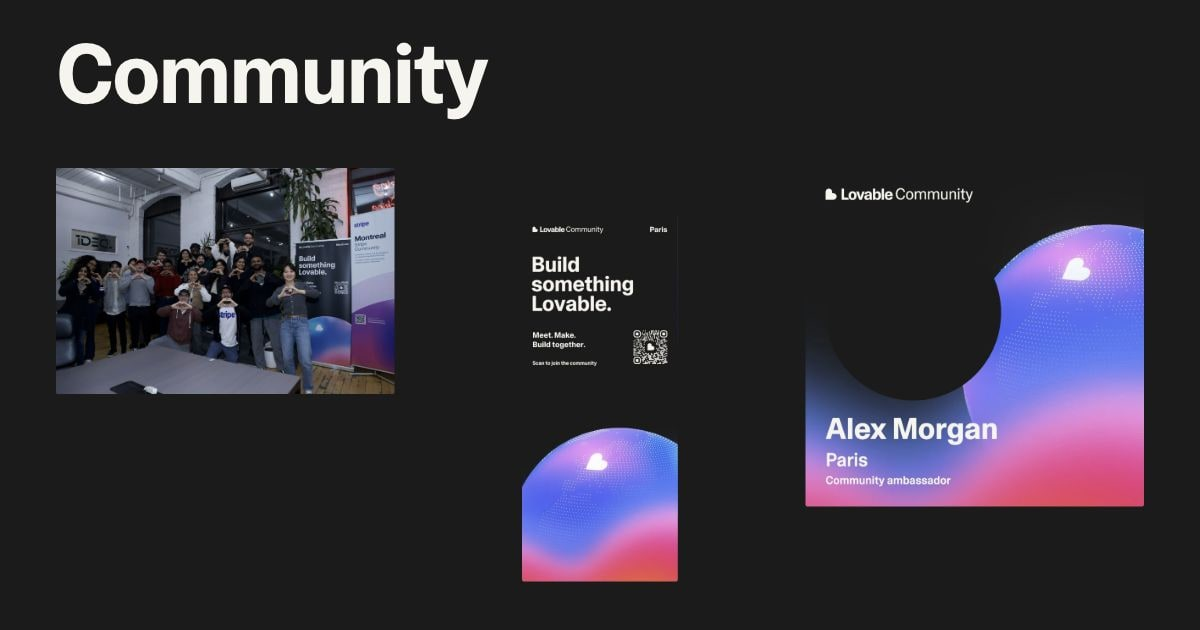
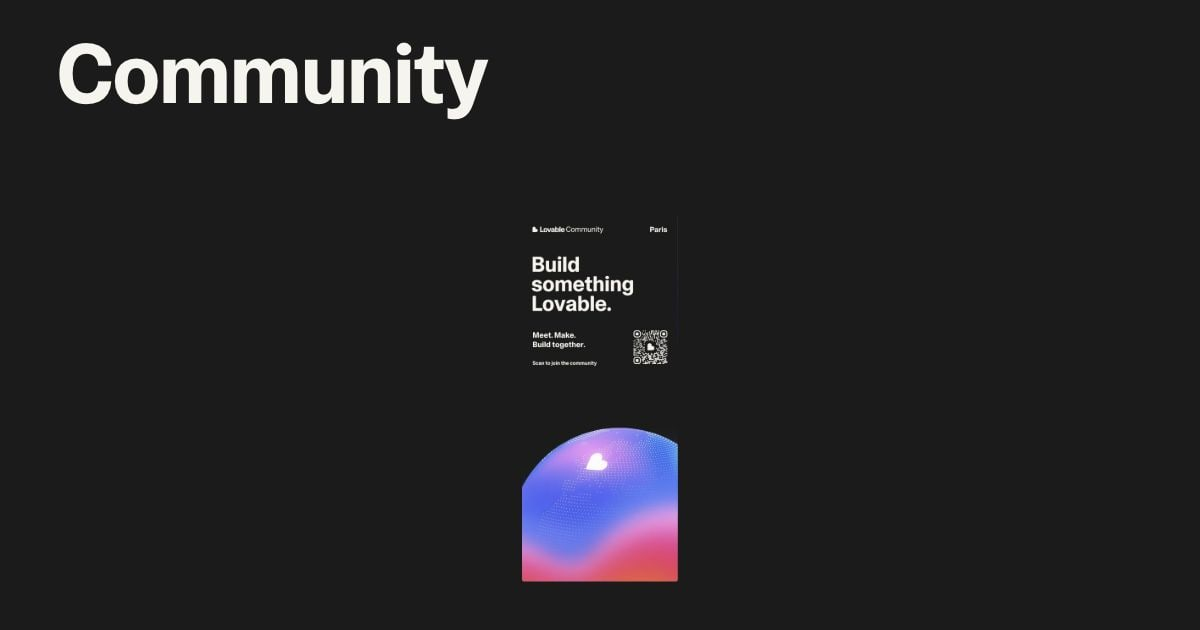
Arrange Tech blog in three columns and move Community kit first

Changed region(s): [[0.0308, 0.2413, 0.3392, 0.6333], [0.6475, 0.3317, 0.9558, 0.8143], [0.6783, 0.3016, 0.8325, 0.3317]]

diff --git a/src/ambassadors/gallery.css b/src/ambassadors/gallery.css
@@ -1,11 +1,11 @@
 /* Share Partners' gallery shell, grid, spacing and responsive breakpoints. */
 .ambassador-gallery .ambassador-gallery-photo { grid-area: 1 / 1 / auto / span 5; }
 .ambassador-gallery .ambassador-gallery-banner { grid-area: 1 / 7 / auto / span 2; margin-top: 48px; }
-.ambassador-gallery .ambassador-gallery-spotlight { grid-area: 1 / 10 / auto / span 3; margin-top: 112px; }
+.ambassador-gallery .ambassador-gallery-kit { grid-area: 1 / 10 / auto / span 3; margin-top: 112px; }
 .ambassador-gallery .ambassador-gallery-website { grid-area: 2 / 1 / auto / span 5; margin-top: 48px; }
 .ambassador-gallery .ambassador-gallery-gathering { grid-area: 2 / 7 / auto / span 3; margin-top: 96px; }
 .ambassador-gallery .ambassador-gallery-social { grid-area: 2 / 10 / auto / span 3; }
-.ambassador-gallery .ambassador-gallery-kit { grid-area: 3 / 1 / auto / span 4; }
+.ambassador-gallery .ambassador-gallery-spotlight { grid-area: 3 / 1 / auto / span 4; }
 .ambassador-gallery .ambassador-gallery-speakers { grid-area: 3 / 6 / auto / span 4; margin-top: 72px; }
 .ambassador-gallery .ambassador-gallery-badge { grid-area: 3 / 11 / auto / span 2; margin-top: 120px; border-radius: 5.33%; }
 .ambassador-gallery .ambassador-gallery-poster { grid-area: 4 / 6 / auto / span 7; }
@@ -14,8 +14,8 @@
   .ambassador-gallery .gallery-item { grid-area: auto; margin-top: 0; }
   .ambassador-gallery .ambassador-gallery-photo { grid-column: span 2; width: 88%; }
   .ambassador-gallery .ambassador-gallery-banner { width: 60%; justify-self: center; }
-  .ambassador-gallery .ambassador-gallery-spotlight { width: 86%; justify-self: end; margin-top: 32px; }
-  .ambassador-gallery .ambassador-gallery-website, .ambassador-gallery .ambassador-gallery-kit, .ambassador-gallery .ambassador-gallery-social, .ambassador-gallery .ambassador-gallery-speakers, .ambassador-gallery .ambassador-gallery-poster { grid-column: span 2; width: 88%; }
+  .ambassador-gallery .ambassador-gallery-kit { width: 86%; justify-self: end; margin-top: 32px; }
+  .ambassador-gallery .ambassador-gallery-website, .ambassador-gallery .ambassador-gallery-spotlight, .ambassador-gallery .ambassador-gallery-social, .ambassador-gallery .ambassador-gallery-speakers, .ambassador-gallery .ambassador-gallery-poster { grid-column: span 2; width: 88%; }
   .ambassador-gallery .ambassador-gallery-speakers, .ambassador-gallery .ambassador-gallery-poster { justify-self: end; }
   .ambassador-gallery .ambassador-gallery-gathering, .ambassador-gallery .ambassador-gallery-badge { width: 86%; }
 }
@@ -23,8 +23,8 @@
 @media (max-width: 680px) {
   .ambassador-gallery .gallery-item { grid-area: auto; margin-top: 0; }
   .ambassador-gallery .ambassador-gallery-banner { width: 36%; justify-self: end; }
-  .ambassador-gallery .ambassador-gallery-spotlight { width: 72%; }
+  .ambassador-gallery .ambassador-gallery-kit { width: 72%; }
   .ambassador-gallery .ambassador-gallery-speakers, .ambassador-gallery .ambassador-gallery-poster { width: 84%; justify-self: end; }
   .ambassador-gallery .ambassador-gallery-gathering, .ambassador-gallery .ambassador-gallery-badge { width: 72%; }
-  .ambassador-gallery .ambassador-gallery-kit { width: 84%; }
+  .ambassador-gallery .ambassador-gallery-spotlight { width: 84%; }
 }

diff --git a/src/tech-blog/tech.css b/src/tech-blog/tech.css
@@ -4,8 +4,8 @@
 .tech-modal-wash { position:absolute; inset:0; background:#0009; }
 .tech-demo-button { color:#1b1b1b; background:#f7f4ed; border-radius:8px; padding:8px 14px; font:600 14px 'Camera Plain'; }
 .tech-gallery .gallery-grid { align-items:start; }
-.tech-gallery .tech-artwork { grid-column:span 6; width:100%; margin-top:0; background:transparent; }
-.tech-gallery .tech-artwork:nth-child(2) { margin-top:80px; }
+.tech-gallery .tech-artwork { grid-column:span 4; width:100%; margin-top:0; background:transparent; }
+.tech-gallery .tech-artwork:nth-child(3n + 2) { margin-top:48px; }
 .tech-gallery .tech-email { width:62%; justify-self:center; }
 .tech-gallery .tech-email:last-child { margin-top:64px; }
 .tech-guidelines .tech-frame { border-radius:12px; }
@@ -79,9 +79,5 @@
 
 .tech-label-gap { left:72.495%; width:6.103%; top:-24px; height:8px; border-top:1px solid var(--color-guide); border-inline:1px solid var(--color-guide); }
 .tech-label-gap b { bottom:16px; left:50%; transform:translateX(-50%); }
-.tech-gallery .tech-motion { grid-column:1 / -1; width:100%; aspect-ratio:16/9; }
+.tech-gallery .tech-motion { aspect-ratio:16/9; }
 .tech-gallery .tech-motion > img { display:block; width:100%; height:auto; }
-.tech-gallery .tech-artwork:nth-child(2) { margin-top:0; }
-.tech-gallery .tech-cover:nth-child(3) { margin-top:80px; }
-@media(max-width:1000px){.tech-gallery .tech-cover:nth-child(3){margin-top:50px}}
-@media(max-width:680px){.tech-gallery .tech-cover:nth-child(3){margin-top:0}}

diff --git a/src/ambassadors/views.js b/src/ambassadors/views.js
@@ -13,7 +13,7 @@ const galleryPhotos={
   kit:{label:'Lovable ambassador welcome kit',src:'/ambassadors/gallery/ambassador-kit-1280.webp',srcset:'/ambassadors/gallery/ambassador-kit-640.webp 640w, /ambassadors/gallery/ambassador-kit-1280.webp 1280w',width:1280,height:832},
 };
 export function ambassadorGallery(){return `<section class="gallery ambassador-gallery" aria-label="Community gallery"><div class="gallery-grid">
-  ${['photo','banner','spotlight','website','gathering','social','kit','speakers','badge','poster'].map(id=>{
+  ${['photo','banner','kit','website','gathering','social','spotlight','speakers','badge','poster'].map(id=>{
     const photo=galleryPhotos[id],label=photo?.label||ambassadorFormats.find(f=>f.id===id).name;
     const content=photo?`<img src="${photo.src}" ${photo.srcset?`srcset="${photo.srcset}"`:''} sizes="(max-width:680px) calc(100vw - 48px), (max-width:1000px) 88vw, min(58vw, 850px)" width="${photo.width}" height="${photo.height}" alt="${label}" ${id==='photo'?'fetchpriority="high"':'loading="lazy"'} decoding="async"/>`:preview(id);
     return `<figure class="gallery-item ambassador-gallery-${id}" role="img" aria-label="${label}">${content}</figure>`;

diff --git a/AGENTS.md b/AGENTS.md
@@ -101,3 +101,7 @@
 - In the Lovable identity color playground, display the intact logo at 88% with a right-center transform origin on desktop, increasing its left margin without moving its right anchor. Center that scaling in the stacked mobile layout; downloadable artwork stays unchanged.
 
 - The Lovable collaboration template is named “Partnership” in the selector and new-document title. Cerebras is only the replaceable example partner, not the template name. Preserve existing saved document names.
+
+- Tech blog Gallery shows three assets per desktop row. Its optimized motion video is the first normal-size tile, never a full-width row; retain two columns on tablet and one on mobile.
+
+- Community Gallery places the welcome kit third on the first row, swapping its previous position with Spotlight. Keep this order in responsive layouts and sharing previews.
